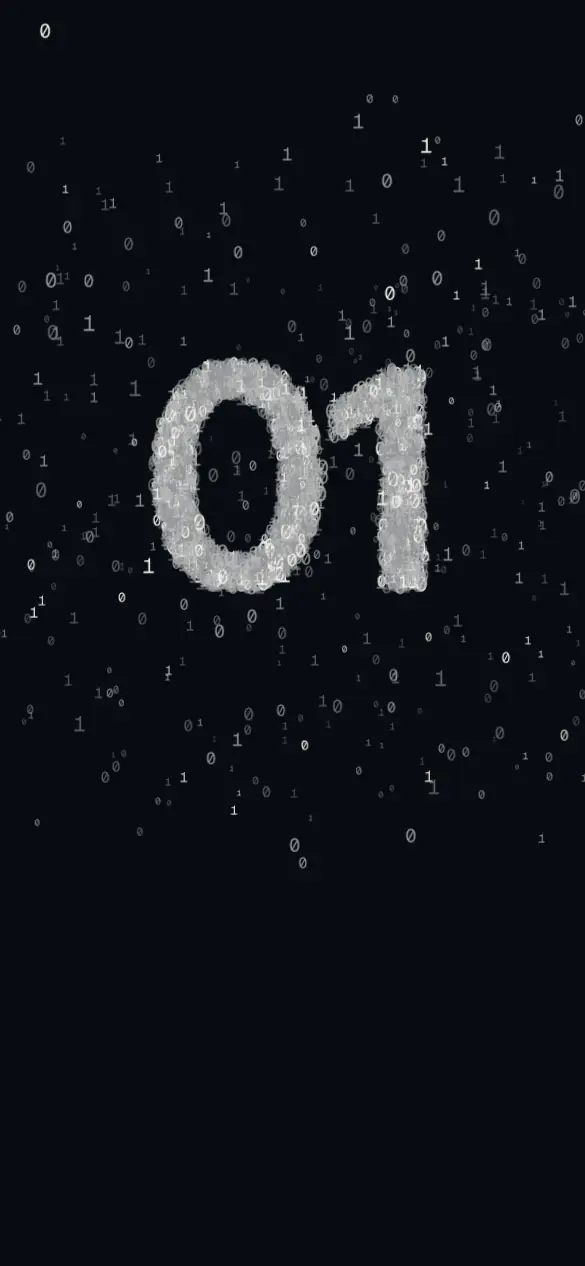
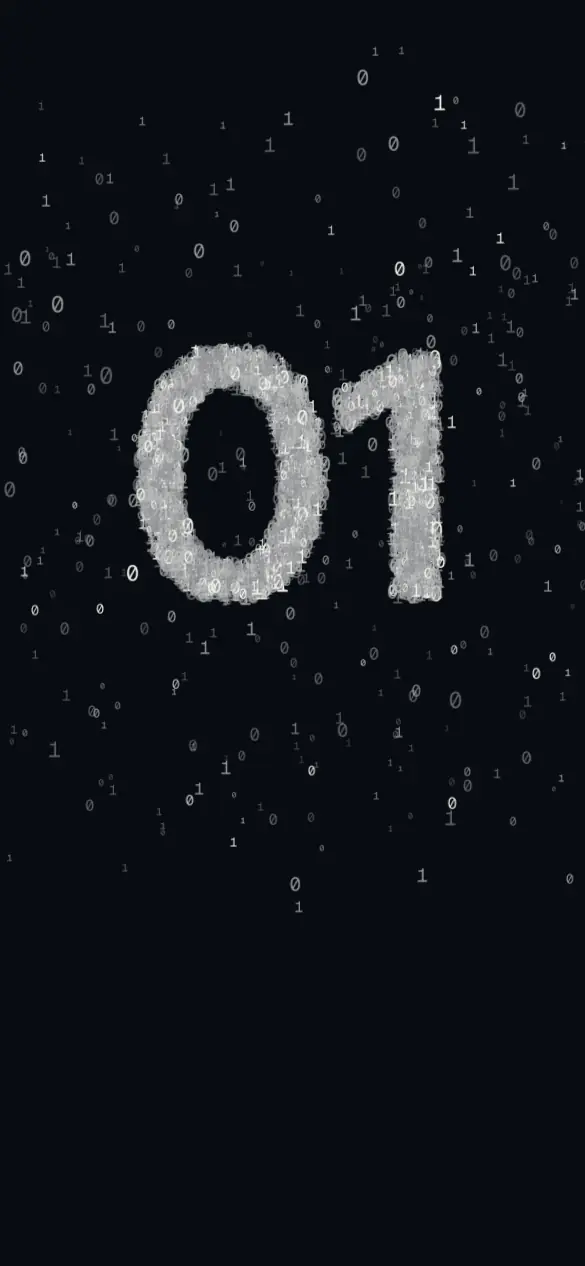
Telefon girişi: 01 boşluğa sığar, yazının arkasındaki toz kısılır, kısa ekran için ayrı poster

diff --git a/core/static/core/site.js b/core/static/core/site.js
@@ -66,6 +66,8 @@
     const dust = new Float32Array(DUST * 3);
     for (let i = 0; i < DUST; i++) { dust[i * 3] = (rnd() - 0.5) * 48; dust[i * 3 + 1] = (rnd() - 0.5) * 26; dust[i * 3 + 2] = -22 + rnd() * 28; }
     const fin = (a) => { a.set(dust, M * 3); return a; };
+    // Toz parçacıkları (son DUST tanesi) şekil küçülünce onunla birlikte büzülmesin diye ayrı ölçeklenir.
+    const isDust = new Float32Array(N); isDust.fill(1, M);
 
     const widths = { helix: 16, sphere: 8.4 }, heights = {}, cache = {};
     function textForm(key, str) {
@@ -121,7 +123,7 @@
     const geo = new THREE.BufferGeometry();
     const aFrom = new THREE.BufferAttribute(fromArr, 3), aTo = new THREE.BufferAttribute(toArr, 3);
     geo.setAttribute('position', aTo); geo.setAttribute('aFrom', aFrom);
-    geo.setAttribute('aSeed', new THREE.BufferAttribute(seed, 1)); geo.setAttribute('aRand', new THREE.BufferAttribute(rand, 3));
+    geo.setAttribute('aSeed', new THREE.BufferAttribute(seed, 1)); geo.setAttribute('aDust', new THREE.BufferAttribute(isDust, 1)); geo.setAttribute('aRand', new THREE.BufferAttribute(rand, 3));
 
     const ac = document.createElement('canvas'); ac.width = 256; ac.height = 128;
     const ax = ac.getContext('2d'); ax.fillStyle = '#fff'; ax.textAlign = 'center'; ax.textBaseline = 'middle';
@@ -129,12 +131,12 @@
     const atlas = new THREE.CanvasTexture(ac);
 
     const U = { uT: { value: 0 }, uTime: { value: 0 }, uPR: { value: PR }, uSize: { value: 15 }, uScatter: { value: 2.6 }, uAspect: { value: 1 },
-      uDim: { value: 1 }, uWave: { value: 0 }, uVel: { value: 0 }, uScale: { value: 1 }, uPtr: { value: new THREE.Vector2(-9, -9) }, uPush: { value: 0.14 }, uAtlas: { value: atlas } };
+      uDim: { value: 1 }, uWave: { value: 0 }, uVel: { value: 0 }, uScale: { value: 1 }, uDustK: { value: 1 }, uDustScale: { value: 1 }, uPtr: { value: new THREE.Vector2(-9, -9) }, uPush: { value: 0.14 }, uAtlas: { value: atlas } };
     const mat = new THREE.ShaderMaterial({
       uniforms: U, transparent: true, depthWrite: false, depthTest: false,
       vertexShader: [
-        'attribute vec3 aFrom; attribute float aSeed; attribute vec3 aRand;',
-        'uniform float uT,uTime,uPR,uSize,uScatter,uAspect,uDim,uWave,uVel,uScale,uPush; uniform vec2 uPtr;',
+        'attribute vec3 aFrom; attribute float aSeed; attribute vec3 aRand; attribute float aDust;',
+        'uniform float uT,uTime,uPR,uSize,uScatter,uAspect,uDim,uWave,uVel,uScale,uDustK,uDustScale,uPush; uniform vec2 uPtr;',
         'varying float vDigit; varying float vAlpha; varying float vBright;',
         'void main(){',
         '  float t=clamp(uT*1.55-aSeed*0.55,0.0,1.0); float e=t*t*(3.0-2.0*t);',
@@ -143,12 +145,13 @@
         '  p+=aRand*(arc*uScatter+uVel*0.4);',
         '  p.y+=sin(p.x*0.55+uTime*0.7)*cos(p.z*0.4+uTime*0.45)*uWave;',
         '  p.x+=sin(uTime*0.6+aSeed*40.0)*0.04; p.y+=cos(uTime*0.5+aSeed*31.0)*0.04;',
+        '  p*=mix(1.0,uDustK,aDust);',
         '  vec4 mv=modelViewMatrix*vec4(p,1.0); vec4 clip=projectionMatrix*mv;',
         '  vec2 df=clip.xy/clip.w-uPtr; df.x*=uAspect; float f=smoothstep(0.3,0.0,length(df));',
         '  vec2 push=normalize(df+vec2(0.0001))*f*uPush; push.x/=uAspect; clip.xy+=push*clip.w;',
         '  gl_Position=clip;',
         '  float depth=-mv.z; float r1=fract(aSeed*7.13); float r2=fract(aSeed*91.7); float r3=fract(aSeed*3.71);',
-        '  gl_PointSize=min(uSize*(0.55+0.9*r1)*uPR*uScale*(22.0/max(depth,0.5)),48.0*uPR);',
+        '  gl_PointSize=min(uSize*(0.55+0.9*r1)*uPR*mix(uScale,uDustScale,aDust)*(22.0/max(depth,0.5)),48.0*uPR);',
         '  float k=floor(uTime*(0.3+1.6*r3)+aSeed*100.0)+floor(uTime*16.0)*step(0.25,f)+floor(arc*6.0);',
         '  vDigit=step(0.5,fract(sin(k*12.9898+aSeed*78.233)*43758.5453));',
         '  vBright=(r2>0.9?1.0:(r2>0.55?0.6:0.32))+f*0.7+arc*0.25;',
@@ -176,8 +179,8 @@
       const b = field.box;
       if (hero && b && b.w > 40 && b.h > 40) {
         const h = heights[n] || 7, cx = (b.x + b.w / 2) / innerWidth - 0.5, cy = (b.y + b.h / 2) / innerHeight - 0.5;
-        // En az 0.3: daha küçükte arka plandaki toz da şekille birlikte büzülüp bulut gibi görünür.
-        const s = Math.max(0.3, Math.min(1.1, (b.w / innerWidth) * visW * 0.84 / w, (b.h / innerHeight) * VIS_H * 0.8 / h));
+        // Kısa ekranda şekil boşluğa sığacak kadar küçülür; toz bundan etkilenmez (uDustK).
+        const s = Math.max(0.12, Math.min(1.1, (b.w / innerWidth) * visW * 0.84 / w, (b.h / innerHeight) * VIS_H * 0.8 / h));
         return { x: cx * visW, y: -cy * VIS_H, s, dim: 1, wave: 0, spin: 0 };
       }
       const short = innerHeight < 760, k = short ? 0.6 : 1;
@@ -255,7 +258,8 @@
       group.rotation.x = spinA - sy * 0.08;
       const dk = tall && !(mob.matches && isHome()) && (live !== 'wave') ? clamp(1 - (scrollY - innerHeight * 0.08) / (innerHeight * 0.3), 0.05, 1)
         : (tall && isHome() && live !== '01' && live !== 'wave' ? 0.55 : 1);
-      U.uDim.value = cur.dim * dk; U.uWave.value = cur.wave; U.uScale.value = 0.6 + 0.4 * Math.min(1, cur.s);
+      U.uDim.value = cur.dim * dk; U.uWave.value = cur.wave; const ds = Math.max(0.3, Math.min(1, cur.s));
+      U.uScale.value = (0.6 + 0.4 * ds) * Math.sqrt(Math.min(1, cur.s / 0.3)); U.uDustScale.value = 0.6 + 0.4 * ds; U.uDustK.value = Math.max(0.3, cur.s) / Math.max(0.05, cur.s);
       renderer.render(scene, cam);
       if (!canvas.classList.contains('on')) { canvas.classList.add('on'); const po = $('.poster'); if (po) { po.classList.add('gone'); setTimeout(() => po.remove(), 900); } }
     }
@@ -566,7 +570,7 @@
     const sb = top.getBoundingClientRect().bottom - y0, wt = who.getBoundingClientRect().top - y0;
     const nameTop = g ? g.nameTop : $('.name', h).offsetTop;
     const gut = parseFloat(getComputedStyle(h).paddingLeft) || 16, W = h.clientWidth;
-    if (mob.matches) return { x: gut, y: sb + 16, w: W - gut * 2, h: Math.min(wt, nameTop) - sb - 32 };
+    if (mob.matches) return { x: gut, y: sb + 4, w: W - gut * 2, h: Math.min(wt, nameTop) - sb - 12 };
     return { x: W * 0.4, y: sb + 12, w: Math.max(0, who.getBoundingClientRect().left - r.left - 24 - W * 0.4), h: nameTop - sb - 36 };
   }
   function hero() {

diff --git a/core/static/core/site.css b/core/static/core/site.css
@@ -159,6 +159,11 @@ a:hover > .bit::before, a[aria-current="page"] > .bit::before, [aria-pressed="tr
 .who { grid-column: 10 / 13; font-size: var(--t-small); line-height: 1.5; color: var(--g2); }
 .who b { display: block; color: var(--fg); font-weight: 560; }
 .status-m { display: none; }
+/* Metnin arkasında zemin renginde yumuşak örtü: arkadaki 0/1 tozu yazının okunmasını bozmasın. */
+.slogan, .who, .status-m { position: relative; isolation: isolate; }
+.slogan::before, .who::before, .status-m::before { content: ""; position: absolute; z-index: -1; inset: -2px -6px; border-radius: 14px; pointer-events: none;
+  background: oklch(0.155 0.014 255 / 0.8); box-shadow: 0 0 22px 18px oklch(0.155 0.014 255 / 0.8); }
+.slogan::before { inset: 4% 2% 12% 0; background: oklch(0.155 0.014 255 / 0.55); box-shadow: 0 0 34px 22px oklch(0.155 0.014 255 / 0.55); }
 /* Ad: site.js yazı tipinin ölçüsüyle tam oturtur; bu değerler o hesabın yaklaşığı (JS gelmeden önce kayma olmasın). */
 .name { margin: -0.0764em 0 calc(clamp(22px, 2.6vw, 44px) - 0.231em); font: 900 min(calc((100vw - 2 * var(--gut)) * 0.1925), 44svh)/1 var(--poster); letter-spacing: 0; text-transform: uppercase; white-space: nowrap; color: var(--fg); }
 .name .ln { display: inline-block; overflow: hidden; padding-top: 0.3em; margin-top: -0.3em; vertical-align: baseline; }
@@ -370,7 +375,9 @@ h1.pd-title { font-size: clamp(3.25rem, 9vw, 9rem); max-width: min(14ch, 100%); 
   .h-band { display: flex; flex-direction: column; justify-content: flex-end; align-items: stretch; padding-bottom: var(--bandPad, 16px); }
   .clock { display: none; }
   .who { font-size: 0.875rem; max-width: 30ch; }
-  .status-m { display: block; margin-top: 16px; padding-top: 12px; border-top: 1px solid var(--rule); font-size: 0.875rem; color: var(--g1); }
+  .status-m { display: block; margin-top: 16px; padding-top: 12px; font-size: 0.875rem; color: var(--g1); }
+  .status-m::before { inset: 10px auto -2px -6px; width: min(100%, 15em); }
+  .status-m::after { content: ""; position: absolute; left: 0; right: 0; top: 0; height: 1px; background: var(--rule); }
   .name { font-size: calc((100vw - 2 * var(--gut)) * 0.505); margin: -0.0794em 0 calc(max(14px, 2svh) - 0.083em); }
   .name .ln { display: block; }
   .name .ln + .ln { font-size: 0.668em; margin-top: var(--l2, -0.3228em); }

diff --git a/core/templates/base.html b/core/templates/base.html
@@ -18,7 +18,7 @@
 </head>
 <body>
 <canvas id="bits" aria-hidden="true"></canvas>
-{% if page_key == "home" %}<picture class="poster-wrap"><source media="(max-width: 759px)" srcset="{% static 'core/poster-m.webp' %}"><img class="poster" src="{% static 'core/poster-d.webp' %}" alt="" aria-hidden="true" decoding="async" fetchpriority="low"></picture>{% endif %}
+{% if page_key == "home" %}<picture class="poster-wrap"><source media="(max-width: 759px) and (min-aspect-ratio: 13/25)" srcset="{% static 'core/poster-s.webp' %}"><source media="(max-width: 759px)" srcset="{% static 'core/poster-m.webp' %}"><img class="poster" src="{% static 'core/poster-d.webp' %}" alt="" aria-hidden="true" decoding="async" fetchpriority="low"></picture>{% endif %}
 <div class="grain" aria-hidden="true"></div>
 
 <header class="top pad">
